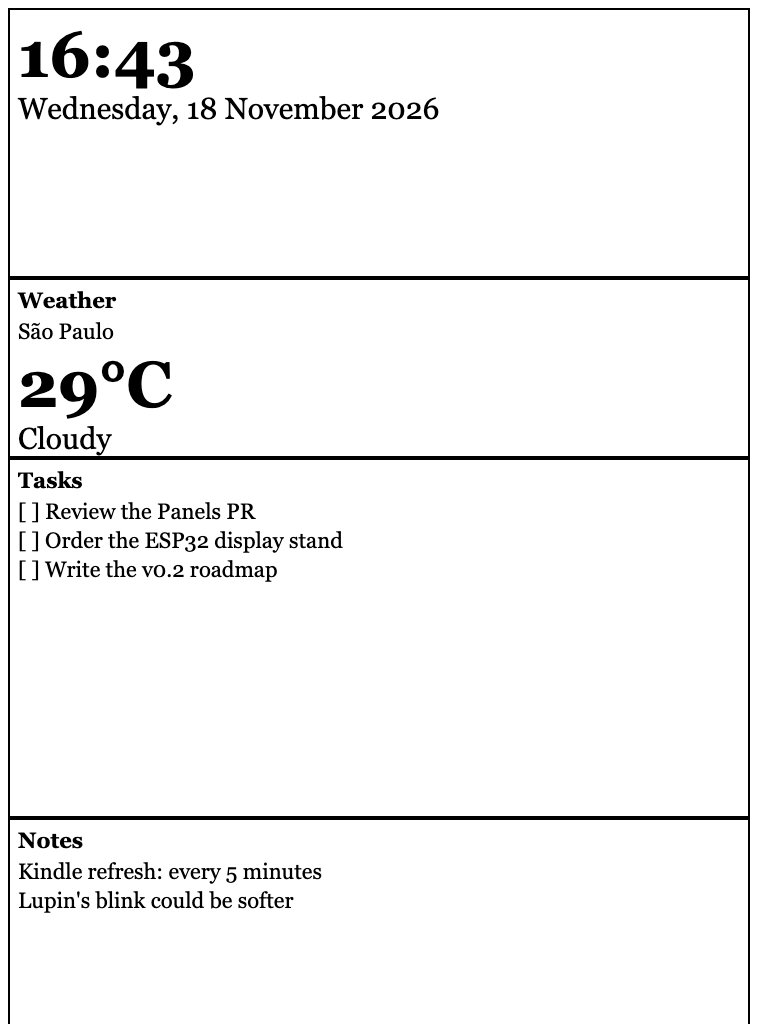
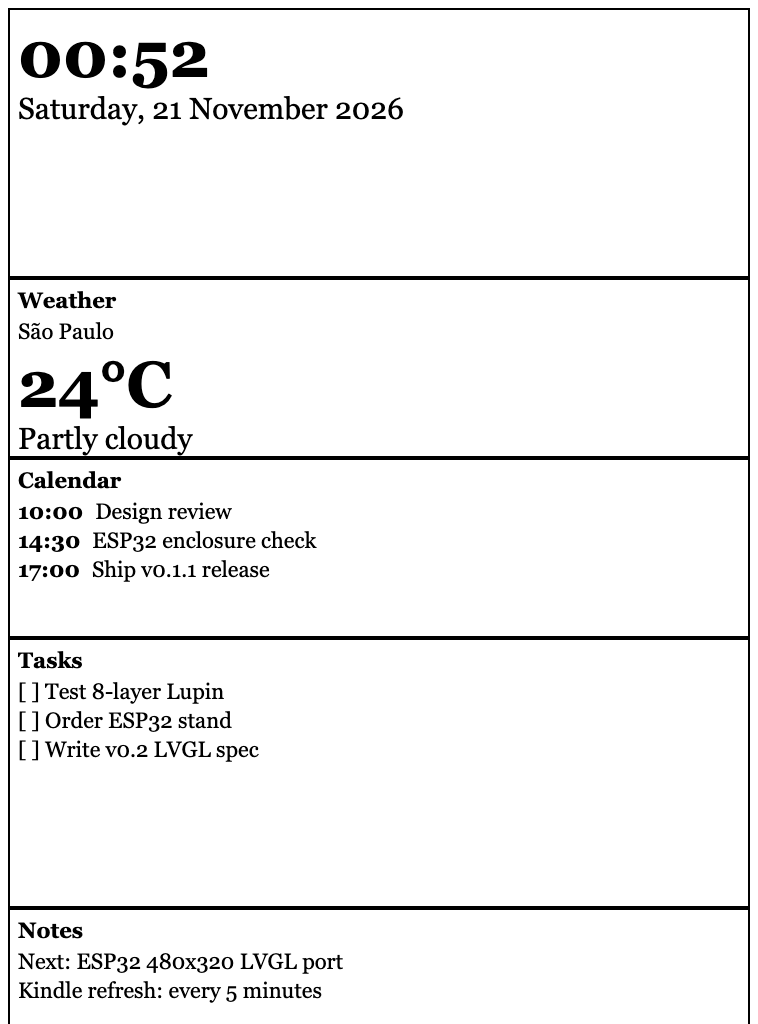
docs: refresh showcase screenshots for layered Lupin and wave 5 Panels

diff --git a/README.md b/README.md
@@ -14,11 +14,11 @@ The system separates state from display ([ADR 0002](docs/adr/0002-two-pillars-lu
 - **Lupin (companion):** One Python Brain on your Mac manages the LLM connection, SQLite short- and long-term memory, Mood (`Affinity` and `Energy`), morning First Wake summaries, Cowork workspace tasks, and whitelisted Mac actions. Any screen can act as a **Body**, though Lupin only speaks and animates in one **Active Body** at a time (chosen by priority on the Mac). You can talk from any device; replies play on the Active Body and appear as text where you asked.
 - **Panels (repurposed screens):** Spare devices become grid dashboards (`12x6`, portrait and landscape) configured in a Mac browser editor and pushed over WebSocket—or rendered as plain server-side HTML over HTTP for e-ink readers.
 
-![A Panel in landscape: clock, weather, Pomodoro, checklist, habits and notes](docs/media/panel.png)
+![A Panel in landscape: clock, weather, Mac CPU and memory, checklist, AI coding sessions, and habits](docs/media/panel.png)
 
 ![Mac Layout editor](docs/media/layout-editor.png)
 
-<img src="docs/media/eink-mode.png" alt="The same Layout in E-ink Mode, portrait, as a Kindle renders it" width="380">
+<img src="docs/media/eink-mode.png" alt="Portrait E-ink Mode on a Kindle: clock, weather, calendar, tasks, and notes" width="380">
 
 *Screenshots captured against a throwaway demo Brain with sample data.*
 
